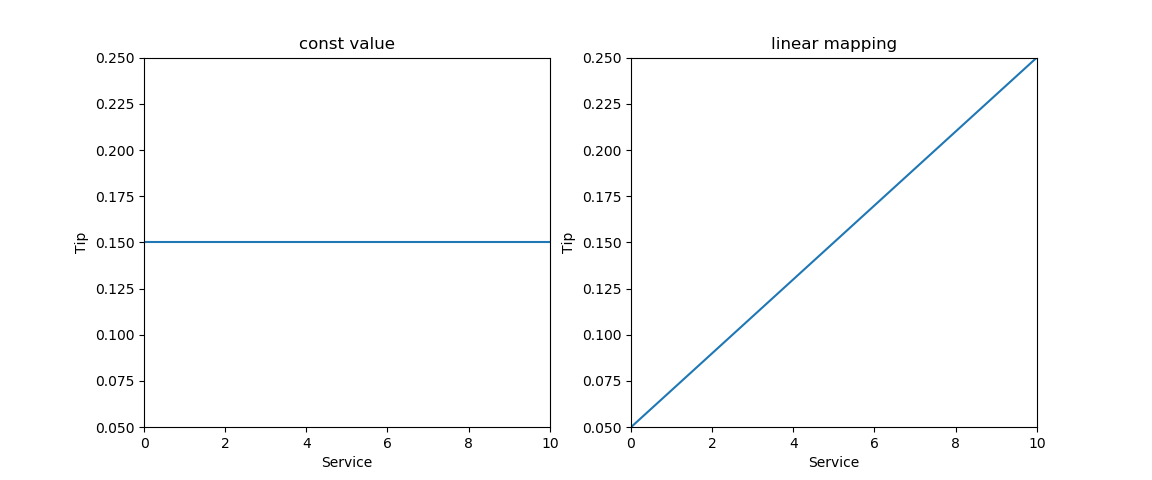
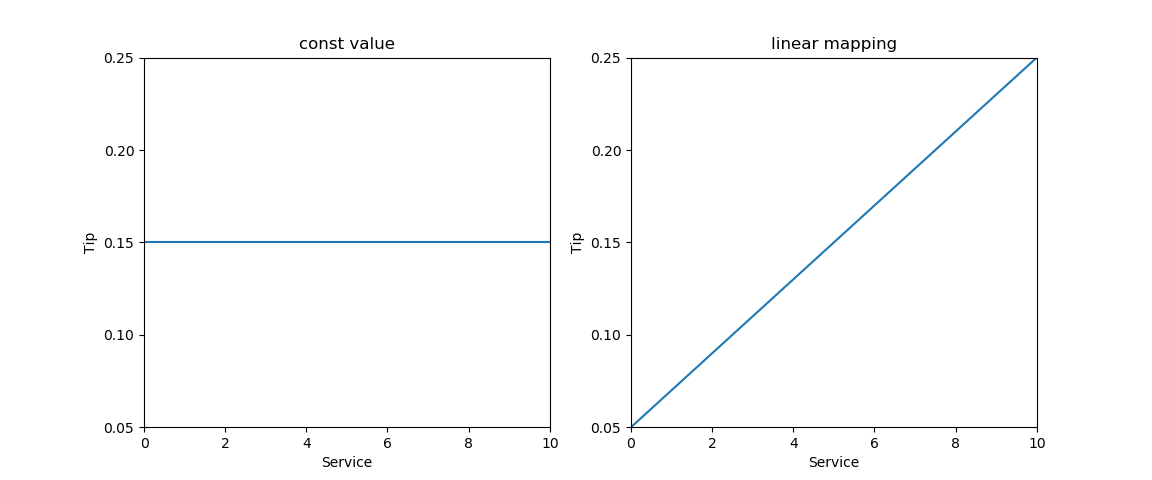
yticks

diff --git a/5-nonfuzzy-approach-1d.py b/5-nonfuzzy-approach-1d.py
@@ -19,6 +19,8 @@ plt.xlabel("Service")
 plt.ylabel("Tip")
 plt.xlim(0, 10)
 plt.ylim(0.05, 0.25)
+step = 0.05
+plt.yticks(np.arange(0.05, 0.25 + 0.5 * step, step))
 
 tip = (0.20 / 10) * service + 0.05
 plt.subplot(row, col, 2)
@@ -28,6 +30,8 @@ plt.xlabel("Service")
 plt.ylabel("Tip")
 plt.xlim(0, 10)
 plt.ylim(0.05, 0.25)
+step = 0.05
+plt.yticks(np.arange(0.05, 0.25 + 0.5 * step, step))
 
 plt.savefig("img/5-nonfuzzy-approach-1d.png")
 plt.show()
